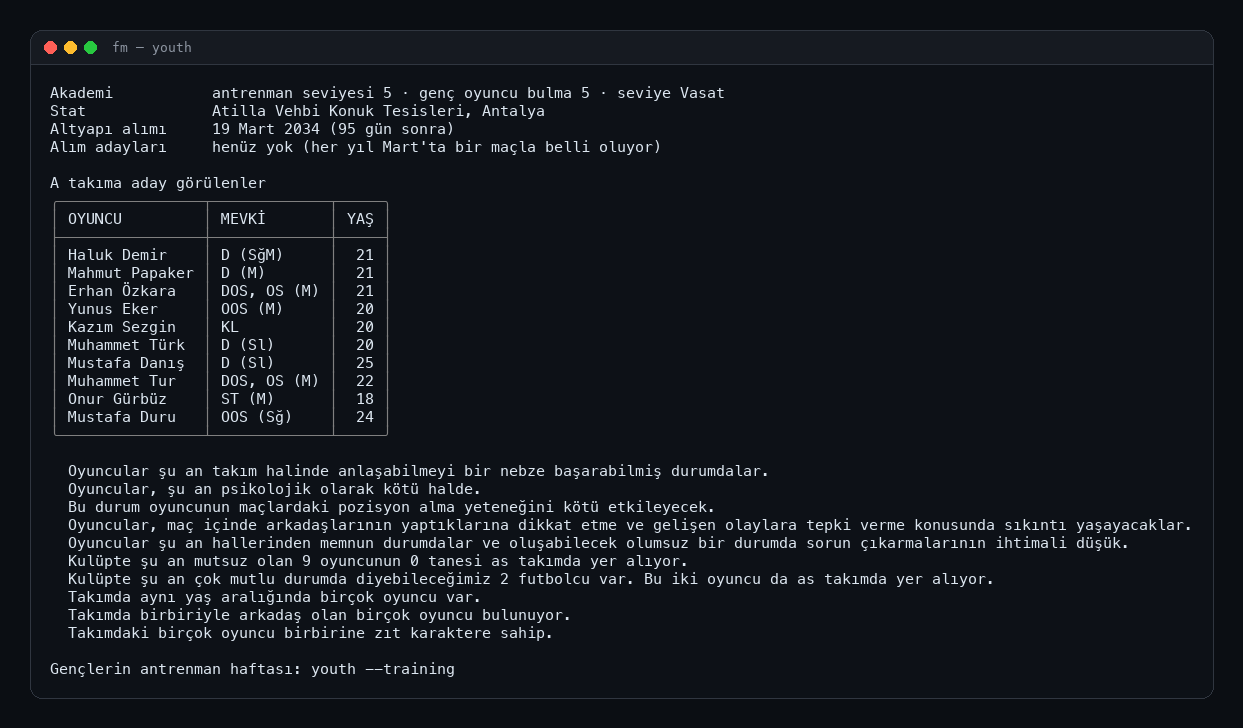
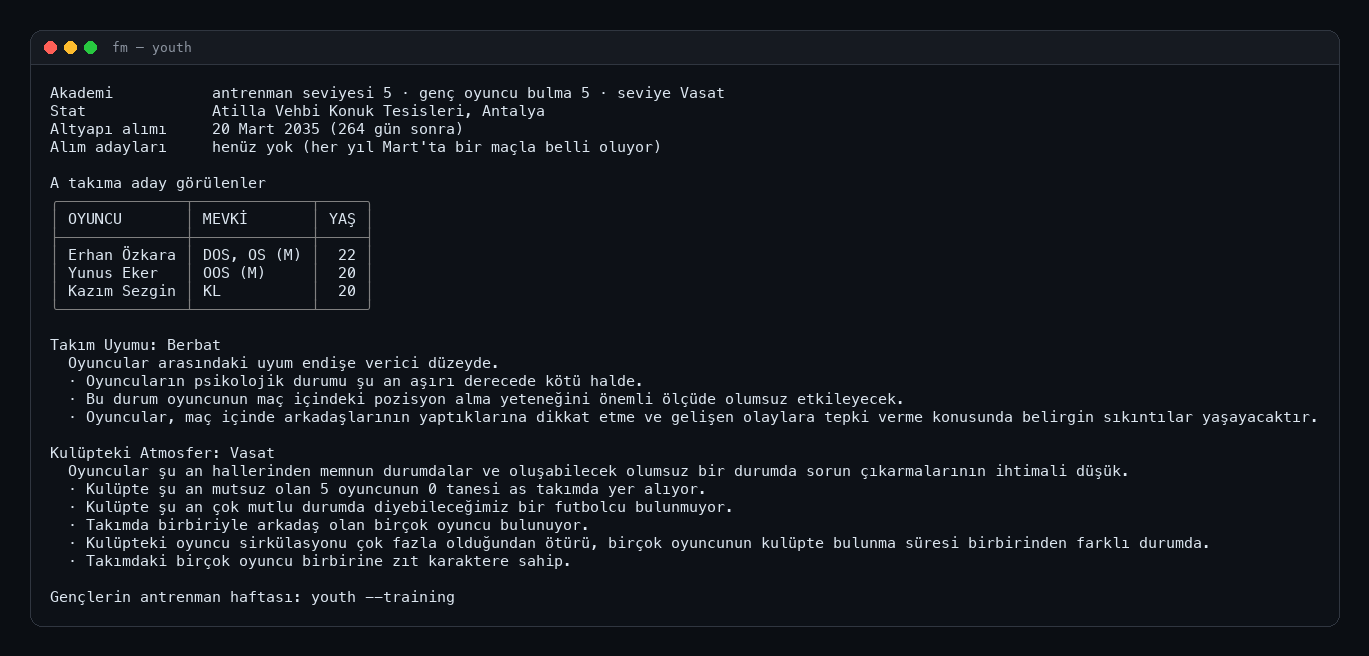
fix: youth overview held by the club's data, cohesion in the game's words (T85)
Prospects from Club.DevelopmentPlayersFirstTeamCandidates, dynamics from the youth
team's feedback data, the level as shown on its tile. TR + EN 3/3 (round60).

Changed region(s): [[0.0306, 0.122, 0.9477, 0.9451], [0.0306, 0.0305, 0.1529, 0.0915]]

diff --git a/cli/fm/Club/Youth.cs b/cli/fm/Club/Youth.cs
@@ -162,10 +162,11 @@ internal static partial class Program
 	}
 
 	/// <summary>
-	/// The academy at a glance, from the club's data and the Youth Setup pages' data paths
-	///: coaching and recruitment levels, the youth stadium, the youth team's staff,
-	/// the next intake and whether its candidates have come, the youngsters thought ready for the
-	/// first team, and the dressing room's mood.
+	/// The academy at a glance, from the club's data: coaching and recruitment levels, the youth stadium, the next
+	/// intake and whether its candidates have come, the youngsters the staff see as first-team prospects
+	/// (Club.DevelopmentPlayersFirstTeamCandidates), and the youth team's cohesion and atmosphere (its dynamics
+	/// feedback, in the game's words). The youth level alone has no data path: it is the #youth-level tile's
+	/// #description on the youth environment page, read as shown.
 	/// </summary>
 	private static async Task<int> Youth(bool json, string[] args)
 	{
@@ -174,73 +175,67 @@ internal static partial class Program
 		if (args.Contains("--candidates") || args.Skip(1).Any(w => w is "candidates" or "adaylar" or "aday")) return await YouthCandidates(json);
 		if (args.Skip(1).Any(w => w is "preview" or "onizleme")) return await YouthPreview(json);
 
-		// The environment tab: the youth team's staff and the academy's level are bound there.
-		List<(string Text, string Path)> details = [];
-		// FM27 moved the page under the youth team's squad (Squad Dynamics there) and dropped its staff
-		// counts and the level's path: there it is known by the mood's lines.
-		var opened = await OpenSubpage(Screen.YouthSetup, Screen.YouthEnvironment, async () =>
-			(details = await YouthPaths("Team.Club.YouthCoachingLevel", "12")).Any(t => t.Path == "Team.StaffCoachingSubGroup.Count")
-			|| (details = await YouthPaths("data.Description", "12")).Any(t => t.Path == "binding.ProConsLongString"));
+		// The level as a person reads it: the tile's description in the game's own words (the same English word
+		// stands for two Turkish ones on this page, so it is not looked up).
+		var level = "";
+		async Task<bool> LevelShown() => (level = (await Fm.GetJson("shown", ("under", "youth-level"))).EnumerateArray()
+			.Where(t => Field(t, "Name") == "description").Select(t => Field(t, "Text")).FirstOrDefault() ?? "").Length > 0;
+		var opened = await OpenSubpage(Screen.YouthSetup, Screen.YouthEnvironment, LevelShown);
 		if (opened.StartsWith("error", StringComparison.Ordinal)) return Report(opened);
-		string Bound(List<(string Text, string Path)> texts, string path) => texts.FirstOrDefault(t => t.Path == path).Text ?? "";
-		string Team(string group) => $"{Bound(details, $"Team.{group}.Count")}/{Bound(details, $"Team.{group}.MaxValue")}";
-		// FM27 draws the level bound to no path, as the #description of its #youth-level tile.
-		var level = Bound(details, "Team.Club.YouthCoachingLevel");
-		if (level.Length == 0)
-			await Until(async () => (level = (await Fm.GetJson("texts", ("within", "youth-level"), ("named", "description"))).EnumerateArray()
-				.Select(t => t.ValueKind == JsonValueKind.String ? t.GetString() ?? "" : "").FirstOrDefault() ?? "").Length > 0, seconds: 4, every: 0.25);
-		level = GameWords.Of(level);
-		var atmosphere = details.Where(t => t.Path is "data.Description" or "binding.ProConsLongString").Select(t => t.Text).Distinct().ToList();
+		if (level.Length == 0) await Until(LevelShown, seconds: 4, every: 0.25);
 
-		var club = await Fm.Pull("Human.Club", "YouthCoaching,YouthRecruitment,IntakeDate,YouthCandidatesCount");
+		var club = await Fm.Pull("Human.Club", "YouthCoaching,YouthRecruitment,IntakeDate,YouthCandidatesCount,AllFirstTeamYouthCandidatesCount");
 		var stadium = Field(await Fm.Pull("Human.Club.YouthStadium", "Name"), "Name");
 		var town = Field(await Fm.Pull("Human.Club.YouthStadium.City", "Name"), "Name");
 		var today = DateTime.TryParseExact(Field(await Fm.GetJson("state"), "Date"), "yyyy-MM-dd", null, System.Globalization.DateTimeStyles.None, out var d) ? d : DateTime.Today;
 		var intake = DateTime.TryParseExact(Field(club, "IntakeDate"), "yyyy-MM-dd", null, System.Globalization.DateTimeStyles.None, out var i) ? i : (DateTime?)null;
 
-		// The overview page: the first-team candidates as name (binding.InitialSurname), best position and age.
-		var overview = new List<(string Text, string Path)>();
-		await OpenPage(Screen.YouthSetup);
-		// Read once a candidate's cells are drawn and two readings agree (or there is none to draw).
-		var previous = "?";
-		await Until(async () =>
+		// The prospects: the club's own list, read once it holds as many as the club counts, each filled.
+		var prospects = new List<string[]>();
+		if (int.TryParse(Field(club, "AllFirstTeamYouthCandidatesCount"), out var many) && many > 0)
 		{
-			// Held by a candidate's name, thirty levels below the page (rows nest deep); with no
-			// candidate, by the youth team's type on the same page (FM27).
-			overview = await YouthPaths("binding.InitialSurname", "30");
-			// FM27: name (primarytext), "21-year-old full-back" (Person.PlayerDescription), best position.
-			if (overview.Count == 0) overview = await YouthPaths("Person.PlayerDescription", "30");
-			if (overview.Count == 0) overview = await YouthPaths("team.TeamTypeStringTypeOnly", "30");
-			var key = string.Join("|", overview.Select(t => t.Text));
-			var settled = key == previous && overview.Count > 0
-			              && (overview.All(t => t.Path is not ("binding.InitialSurname" or "Person.PlayerDescription")) || overview.Any(t => t.Path == "binding"));
-			previous = key;
-			return settled;
-		}, seconds: 6, every: 0.5);
-		var candidates = new List<string[]>();
-		for (var at = 0; at < overview.Count; at++)
-			if (overview[at].Path == "binding.InitialSurname")
+			const string Props = "Name,PositionCombinedString,Age";
+			var whole = await Until(async () =>
 			{
-				var cells = overview.Skip(at + 1).TakeWhile(t => t.Path == "binding").Select(t => t.Text).ToList();
-				candidates.Add([overview[at].Text, cells.ElementAtOrDefault(0) ?? "", cells.ElementAtOrDefault(1) ?? ""]);
-			}
-			else if (overview[at].Path == "primarytext" && at + 2 < overview.Count && overview[at + 1].Path == "Person.PlayerDescription" && overview[at + 2].Path == "binding")
+				var read = await Fm.Pull("Human.Club.DevelopmentPlayersFirstTeamCandidates.DevelopmentPlayersFirstTeamCandidatePlayers", Props, list: true);
+				var rows = read.ValueKind == JsonValueKind.Array ? read.EnumerateArray().ToList() : [];
+				prospects = rows.Select(r => new[] { Field(r, "Name"), Field(r, "PositionCombinedString"), Field(r, "Age") }).ToList();
+				return prospects.Count == many && prospects.All(p => p.All(f => f.Length > 0));
+			}, seconds: 6, every: 0.3);
+			if (!whole) Console.Error.WriteLine(L($"The {many} first-team prospects could not all be read."));
+		}
+
+		// The youth team's dynamics: cohesion and atmosphere, each with its level and points, in the game's words.
+		var team = Field(await Fm.Pull("Human.Club.YouthTeam", "UniqueId"), "UniqueId").Length > 0 ? "Human.Club.YouthTeam" : "Human.Club.HighestLevelYouthTeam";
+		var dynamics = new List<(string Name, string Level, string Description, List<string> Points)>();
+		foreach (var kind in new[] { "MatchCohesionFeedback", "ClubAtmosphereFeedback" })
+		{
+			JsonElement head = default;
+			List<string> points = [];
+			// The points list's own value names each entry: read once as many have come, each with its words.
+			var read = await Until(async () =>
 			{
-				// The age is the description's number, whatever the language says around it.
-				var age = System.Text.RegularExpressions.Regex.Match(overview[at + 1].Text, @"\d+").Value;
-				candidates.Add([overview[at].Text, overview[at + 2].Text, age]);
-			}
+				head = await Fm.Pull($"{team}.{kind}", "Name,CurrentDynamicSupportStringShort,Description,DynamicsProCons", shown: "Name,CurrentDynamicSupportStringShort,Description");
+				if (Field(head, "Name").Length == 0) return false;
+				var count = Field(head, "DynamicsProCons") is { Length: > 0 } entries ? entries.Split(',').Length : 0;
+				if (count == 0) return true;
+				var rows = await Fm.Pull($"{team}.{kind}.DynamicsProCons", "ProConsLongString", list: true, shown: "ProConsLongString");
+				points = rows.ValueKind == JsonValueKind.Array ? rows.EnumerateArray().Select(r => Field(r, "ProConsLongString")).ToList() : [];
+				return points.Count == count && points.All(p => p.Length > 0);
+			}, seconds: 6, every: 0.3);
+			if (read) dynamics.Add((Field(head, "Name"), Field(head, "CurrentDynamicSupportStringShort"), Field(head, "Description"), points));
+		}
 
 		var youth = new
 		{
 			AcademyCoaching = Field(club, "YouthCoaching"), Recruitment = Field(club, "YouthRecruitment"),
 			Level = level,
 			Stadium = town.Length > 0 && stadium.Length > 0 && !stadium.Contains(town) ? $"{stadium}, {town}" : stadium,
-			Coaches = Team("StaffCoachingSubGroup"), Recruiters = Team("StaffRecruitmentSubGroup"), Medical = Team("StaffMedicalSubGroup"),
 			IntakeDate = intake?.ToString("yyyy-MM-dd") ?? "", IntakeInDays = intake is { } when ? (int)(when - today).TotalDays : (int?)null,
 			IntakeCandidates = int.TryParse(Field(club, "YouthCandidatesCount"), out var came) && came > 0 ? "arrived" : "awaited",
-			Candidates = candidates.Select(c => new { Player = c[0], Position = c[1], Age = c[2] }),
-			Atmosphere = atmosphere,
+			Candidates = prospects.Select(c => new { Player = c[0], Position = c[1], Age = c[2] }),
+			Dynamics = dynamics.Select(x => new { x.Name, x.Level, x.Description, x.Points }),
+			Atmosphere = dynamics.SelectMany(x => x.Points.Prepend(x.Description)).Where(t => t.Length > 0).ToList(),
 		};
 
 		if (json)
@@ -250,18 +245,18 @@ internal static partial class Program
 		}
 		Console.WriteLine(L($"Academy           training level {youth.AcademyCoaching} · youth recruitment {youth.Recruitment} · level {youth.Level}"));
 		Console.WriteLine(L($"Stadium           {youth.Stadium}"));
-		if (youth.Coaches != "/") Console.WriteLine(L($"Staff             coaches {youth.Coaches} · scouting {youth.Recruiters} · medical {youth.Medical}"));
 		if (intake is { } day) Console.WriteLine(L($"Youth intake      {day.Day} {Months[day.Month - 1]} {day.Year} (in {youth.IntakeInDays} days)"));
 		Console.WriteLine(youth.IntakeCandidates == "awaited" ? L("Intake candidates none yet (they are known each March with a match)") : L("Intake candidates ARRIVED — the list: youth candidates"));
-		if (candidates.Count > 0)
+		if (prospects.Count > 0)
 		{
 			Console.WriteLine(L("\nSeen as first-team prospects"));
-			Table.Write([L("PLAYER"), L("POSITION"), L("AGE")], candidates);
+			Table.Write([L("PLAYER"), L("POSITION"), L("AGE")], prospects);
 		}
-		if (atmosphere.Count > 0)
+		foreach (var x in dynamics)
 		{
-			Console.WriteLine();
-			foreach (var line in atmosphere) Console.WriteLine($"  {line}");
+			Console.WriteLine($"\n{x.Name}: {x.Level}");
+			if (x.Description.Length > 0) Console.WriteLine($"  {x.Description}");
+			foreach (var point in x.Points) Console.WriteLine($"  · {point}");
 		}
 		Console.WriteLine(L("\nThe young players' training week: youth --training"));
 		return 0;

diff --git a/docs/TASKS.md b/docs/TASKS.md
@@ -800,8 +800,15 @@ not yet tried in a live terminal.
     - [x] `Club/ClubCards.cs` `CardWords`: the game's values (grades, yes/no) now in the game's words (`GameWords.Of`:
       "Hayır" where the CLI said "yok"); the kinds of supporter are the CLI's own list (by their data fields), so its
       own words (`L`).
-    - [ ] `Club/Youth.cs` overview (`youth`): first-team prospects read as "the cells after a name" (order) and the
-      age as the number in "21-year-old full-back" (a sentence); waits on two reads agreeing.
+    - [x] `Club/Youth.cs` overview (`youth`): first-team prospects from `Club.DevelopmentPlayersFirstTeamCandidates`
+      (name, `PositionCombinedString`, `Age`), read once as many as `AllFirstTeamYouthCandidatesCount`; cohesion and
+      atmosphere from the youth team's `MatchCohesionFeedback` / `ClubAtmosphereFeedback` (name, level, description,
+      `DynamicsProCons`, as many as its value names) in the game's words (the page texts gave cohesion in English in a
+      Turkish game); the level is `#youth-level` › `#description` as shown (`/shown`; "Average" is two Turkish words on
+      that page). FM26's staff counts gone. No order, no sentence, no two-reads wait. TR + EN 3/3 (`round60.toml`):
+      cold, page open, another page open; a club with none lists none.
+    - [ ] `Club/Youth.cs` `youth --training`: rows by order ("primarytext, then status, position, rating"), scrolled
+      by share of length, two reads agreeing.
     - [x] `Club/Resign.cs`: FM27's button is a GenericAction sending `HumanClubResign` (no dropdown, no end-of-season
       choice: `--end-of-season` is refused); its question is the dialog of Type `Confirm<action id>`, primary slot;
       done when the manager has no club. No board talk came; should one come, its lines are listed for `talk <n>`.
